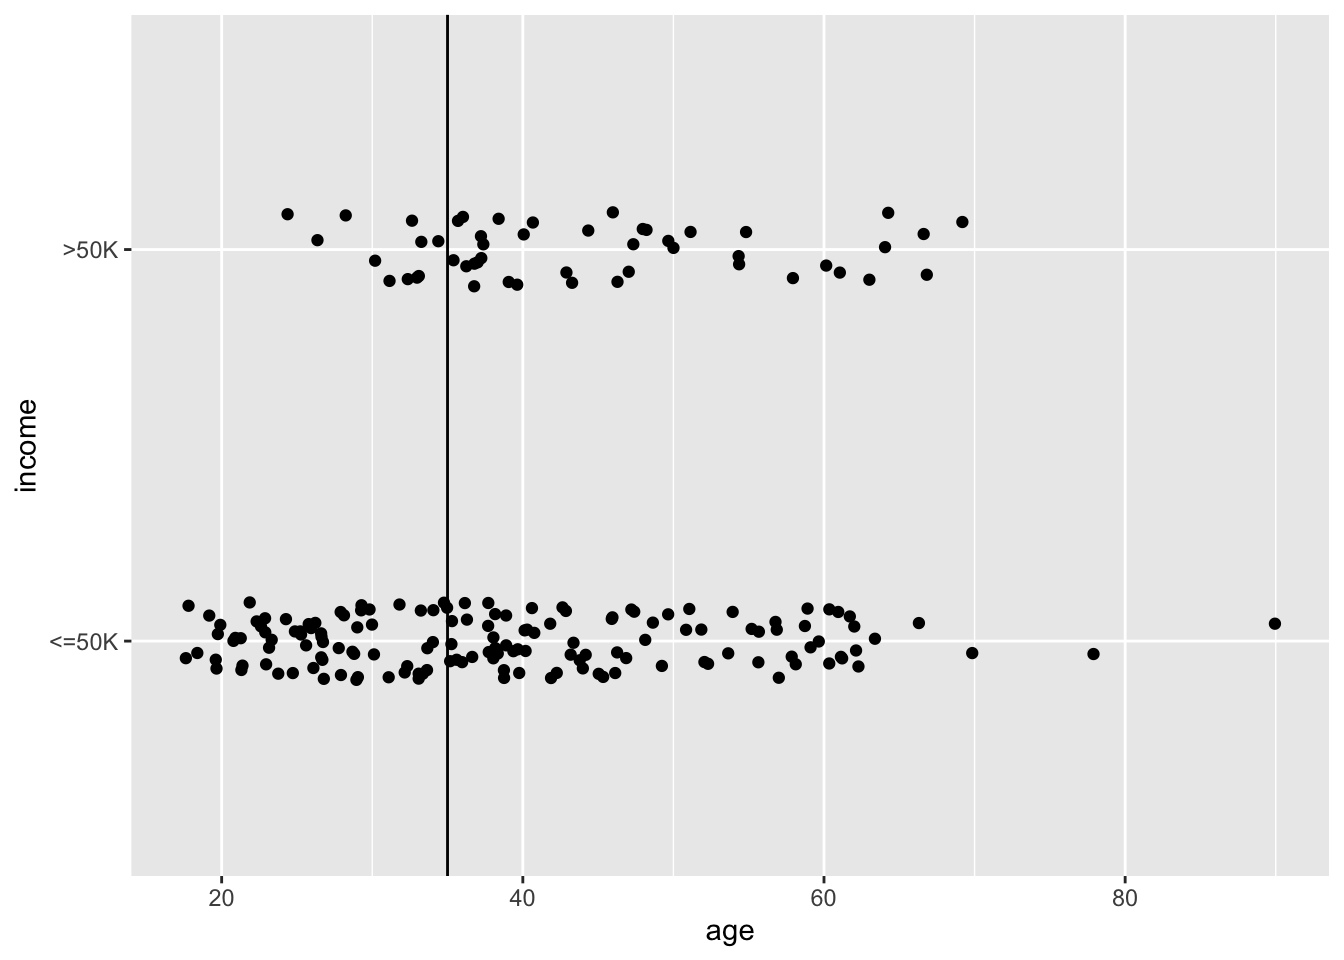
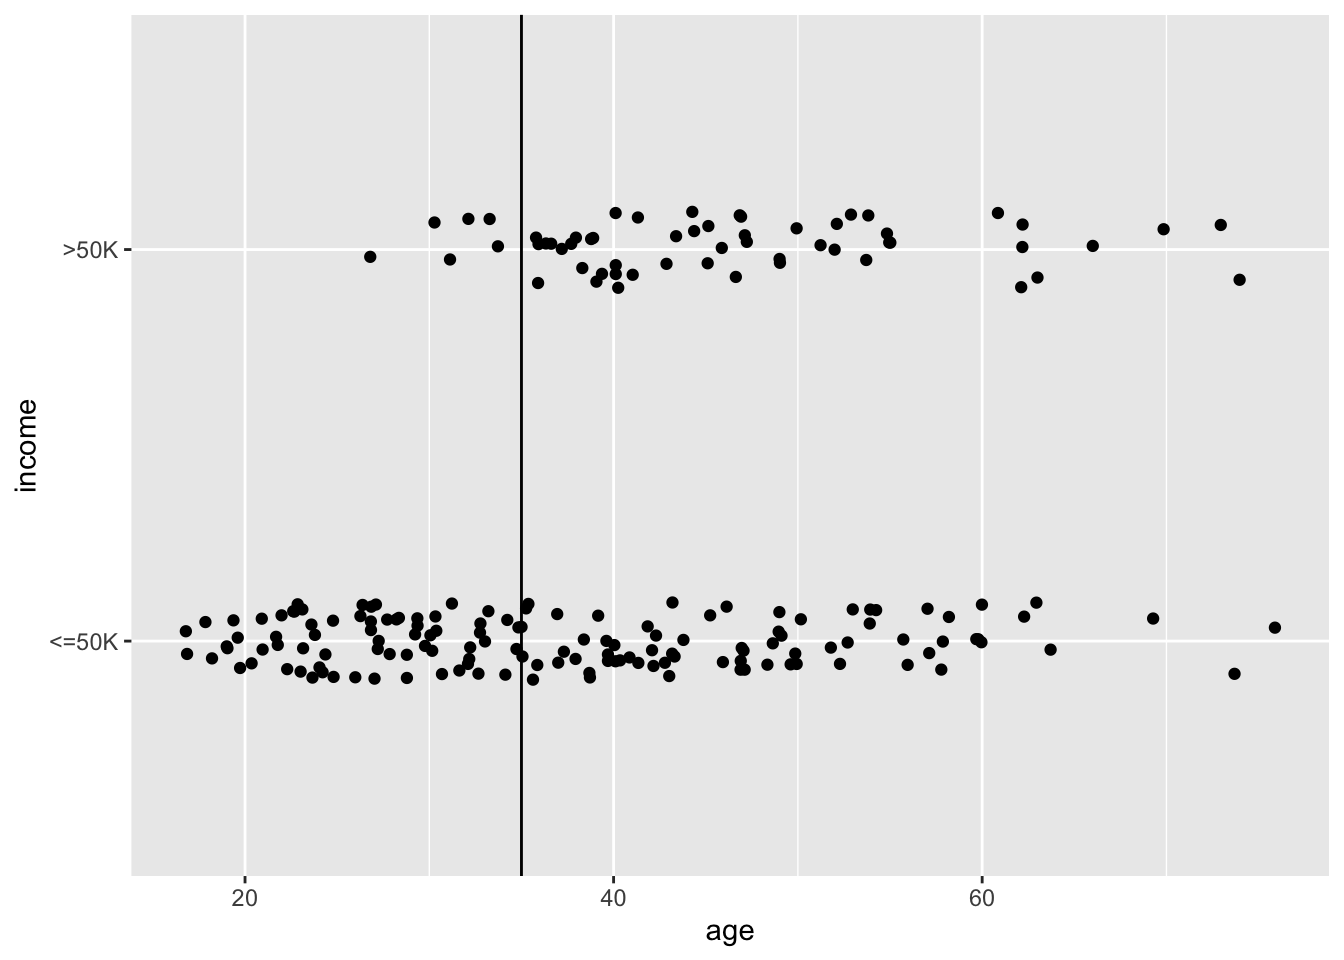
updates

diff --git a/docs/materials/activities/making-trees.html b/docs/materials/activities/making-trees.html
@@ -331,13 +331,13 @@ pre > code.sourceCode > span > a:first-child::before { text-decoration: underlin
 # Groups:   workclass [7]
   workclass        `&lt;=50K` `&gt;50K` high.inc
   &lt;chr&gt;              &lt;int&gt;  &lt;int&gt; &lt;lgl&gt;   
-1 ?                      8      0 TRUE    
-2 Federal-gov            4      1 TRUE    
-3 Local-gov              9      3 TRUE    
-4 Private              108     32 TRUE    
-5 Self-emp-inc           6      5 TRUE    
-6 Self-emp-not-inc       8      7 TRUE    
-7 State-gov              7      2 TRUE    </code></pre>
+1 ?                      5      1 TRUE    
+2 Federal-gov            0      2 FALSE   
+3 Local-gov              8      2 TRUE    
+4 Private              113     42 TRUE    
+5 Self-emp-inc           2      4 FALSE   
+6 Self-emp-not-inc      11      6 TRUE    
+7 State-gov              3      1 TRUE    </code></pre>
 </div>
 <div class="code-copy-outer-scaffold"><div class="sourceCode cell-code" id="cb11"><pre class="sourceCode r code-with-copy"><code class="sourceCode r"><span id="cb11-1"><a href="#cb11-1" aria-hidden="true" tabindex="-1"></a><span class="co"># pick out categories that are majority high income</span></span>
 <span id="cb11-2"><a href="#cb11-2" aria-hidden="true" tabindex="-1"></a>highinc_categories <span class="ot">&lt;-</span> census_boot <span class="sc">%&gt;%</span></span>
@@ -432,15 +432,15 @@ pre > code.sourceCode > span > a:first-child::before { text-decoration: underlin
 <tbody>
 <tr class="odd">
 <td style="text-align: left;">age</td>
-<td style="text-align: left;">64</td>
+<td style="text-align: left;">30</td>
 </tr>
 <tr class="even">
 <td style="text-align: left;">workclass</td>
-<td style="text-align: left;">Private</td>
+<td style="text-align: left;">Self-emp-not-inc</td>
 </tr>
 <tr class="odd">
 <td style="text-align: left;">education</td>
-<td style="text-align: left;">7th-8th</td>
+<td style="text-align: left;">HS-grad</td>
 </tr>
 <tr class="even">
 <td style="text-align: left;">marital_status</td>
@@ -448,7 +448,7 @@ pre > code.sourceCode > span > a:first-child::before { text-decoration: underlin
 </tr>
 <tr class="odd">
 <td style="text-align: left;">occupation</td>
-<td style="text-align: left;">Craft-repair</td>
+<td style="text-align: left;">Prof-specialty</td>
 </tr>
 <tr class="even">
 <td style="text-align: left;">relationship</td>
@@ -468,11 +468,11 @@ pre > code.sourceCode > span > a:first-child::before { text-decoration: underlin
 </tr>
 <tr class="even">
 <td style="text-align: left;">capital_loss</td>
-<td style="text-align: left;">0</td>
+<td style="text-align: left;">1977</td>
 </tr>
 <tr class="odd">
 <td style="text-align: left;">hours_per_week</td>
-<td style="text-align: left;">40</td>
+<td style="text-align: left;">15</td>
 </tr>
 <tr class="even">
 <td style="text-align: left;">native_country</td>
@@ -480,7 +480,7 @@ pre > code.sourceCode > span > a:first-child::before { text-decoration: underlin
 </tr>
 <tr class="odd">
 <td style="text-align: left;">income</td>
-<td style="text-align: left;">&lt;=50K</td>
+<td style="text-align: left;">&gt;50K</td>
 </tr>
 </tbody>
 </table>

diff --git a/docs/materials/slides/week2-classdata.html b/docs/materials/slides/week2-classdata.html
@@ -221,14 +221,17 @@ Dr.&nbsp;Coburn
 </section>
 <section id="can-the-data-support-inference" class="slide level2">
 <h2>Can the data support inference?</h2>
-<p>From a previous year’s reading responses:</p>
+<p>From one of your reading responses:</p>
+<!-- > *It depends on the question. If you want to draw conclusions about the pstat197a class specifically, this sample is the population and thus will have reliable data. If you want to draw conclusions about the pstat department as a whole, then this is a bad sample because it is likely biased and thus unreliable* -->
+<div style="font-size: 0.65em;">
 <blockquote>
-<p><em>It depends on the question. If you want to draw conclusions about the pstat197a class specifically, this sample is the population and thus will have reliable data. If you want to draw conclusions about the pstat department as a whole, then this is a bad sample because it is likely biased and thus unreliable</em></p>
+<p><em>It can make sense to view these. survey responses as a sample from a larger population but it depends on what you consider the larger population. For example, general UCSB students and students in the data science major would not be appropriate as the population, since the students in this class are not randomly selected from those groupings. It can be argued that the students in this class can be a sample of the stats and data science students who are juniors and seniors at UCSB since that is one of the requirements for entering the capstone series. There still might be some bias though since the students who are selected for the program might have stronger resumes or a better academic record than those who are not selected. Another larger population that this data could fit into is all students who have ever been admitted into the capstone series. For this population, I do think the sample data could be more reliable since everyone in the larger population was qualified enough to get into the program.</em></p>
 </blockquote>
+</div>
 </section>
 <section id="alternative-perspectives" class="slide level2">
 <h2>Alternative perspectives</h2>
-<p>The comment points to two ways to view the data:</p>
+<p>The comment points to a few possible ways to view the data:</p>
 <ul>
 <li class="fragment"><p>a census of PSTAT197A enrollees</p></li>
 <li class="fragment"><p>a convenience sample of…</p>
